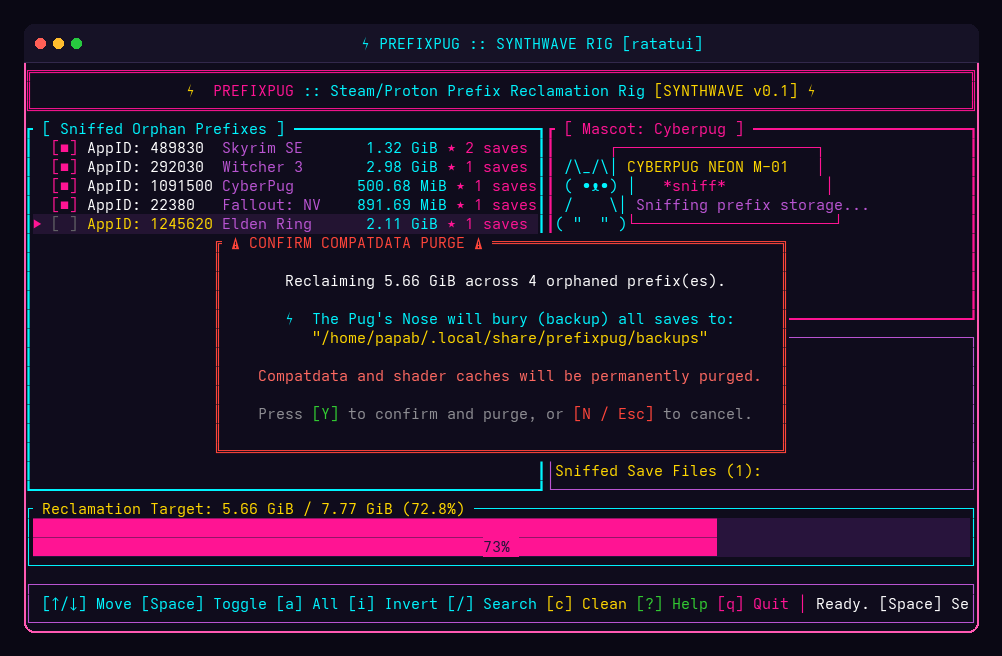
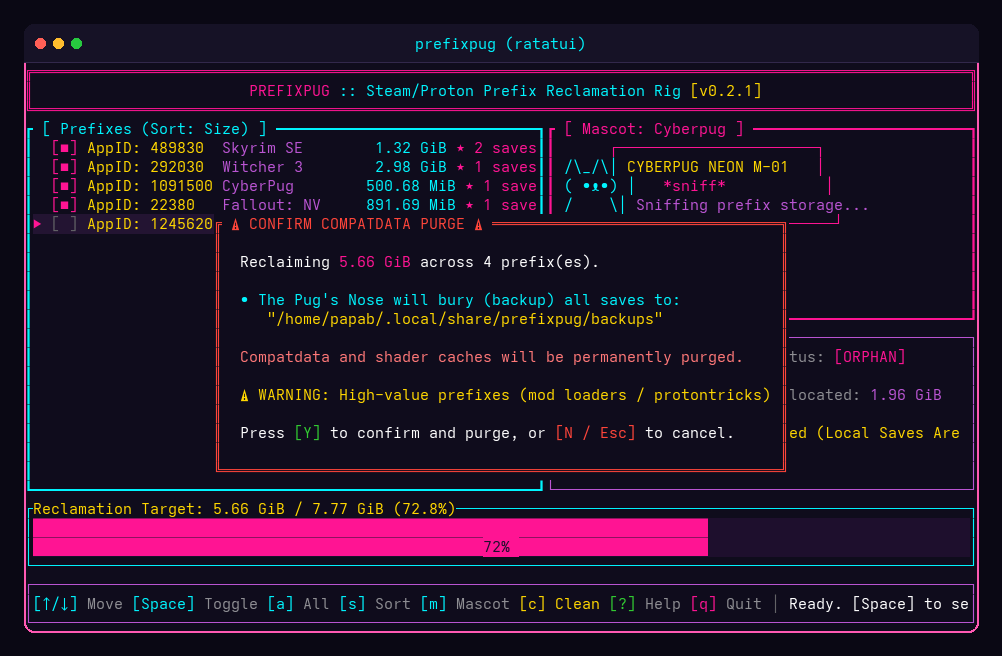
docs: regenerate TUI demo GIF and screenshots to reflect v0.2.1 and clean branding

diff --git a/src/tui/ui.rs b/src/tui/ui.rs
@@ -64,7 +64,6 @@ pub fn render(f: &mut Frame, app: &App) {
 
 fn render_header(f: &mut Frame, area: Rect) {
     let title = Line::from(vec![
-        Span::styled("⚡ ", Style::default().fg(NEON_YELLOW)),
         Span::styled(
             "PREFIXPUG",
             Style::default().fg(NEON_PINK).add_modifier(Modifier::BOLD),
@@ -75,7 +74,7 @@ fn render_header(f: &mut Frame, area: Rect) {
             Style::default().fg(NEON_CYAN),
         ),
         Span::styled(
-            format!(" [SYNTHWAVE v{}] ⚡", env!("CARGO_PKG_VERSION")),
+            format!(" [v{}]", env!("CARGO_PKG_VERSION")),
             Style::default().fg(NEON_YELLOW),
         ),
     ]);
@@ -635,7 +634,7 @@ fn render_confirm_dialog(f: &mut Frame, app: &App, area: Rect) {
         ]),
         Line::from(""),
         Line::from(Span::styled(
-            "  ⚡ The Pug's Nose will bury (backup) all saves to:",
+            "  • The Pug's Nose will bury (backup) all saves to:",
             Style::default().fg(NEON_CYAN),
         )),
         Line::from(Span::styled(

diff --git a/scripts/generate_media.py b/scripts/generate_media.py
@@ -56,8 +56,9 @@ def render_frame_to_image(json_path):
         draw.ellipse([x - 5, y - 5, x + 5, y + 5], fill=col)
 
     # Window title
-    title = "⚡ PREFIXPUG :: SYNTHWAVE RIG [ratatui]"
-    draw.text((win_x0 + term_width // 2 - 140, win_y0 + 10), title, font=font, fill=(0, 245, 255))
+    title = "prefixpug (ratatui)"
+    title_w = draw.textlength(title, font=font)
+    draw.text((win_x0 + (term_width - title_w) // 2, win_y0 + 10), title, font=font, fill=(0, 245, 255))
 
     # Render terminal cells
     grid_x0 = win_x0

diff --git a/src/tui/app.rs b/src/tui/app.rs
@@ -54,7 +54,7 @@ impl App {
             cursor_index: 0,
             state: AppState::Browsing,
             sort_mode: SortMode::Size,
-            show_mascot: false, // Default to data-dense layout
+            show_mascot: true, // Cyberpug mascot sentry enabled by default
             animation_frame: 0,
             status_message: if is_empty {
                 "✨ Storage clean. 0 orphaned prefixes detected.".to_string()
